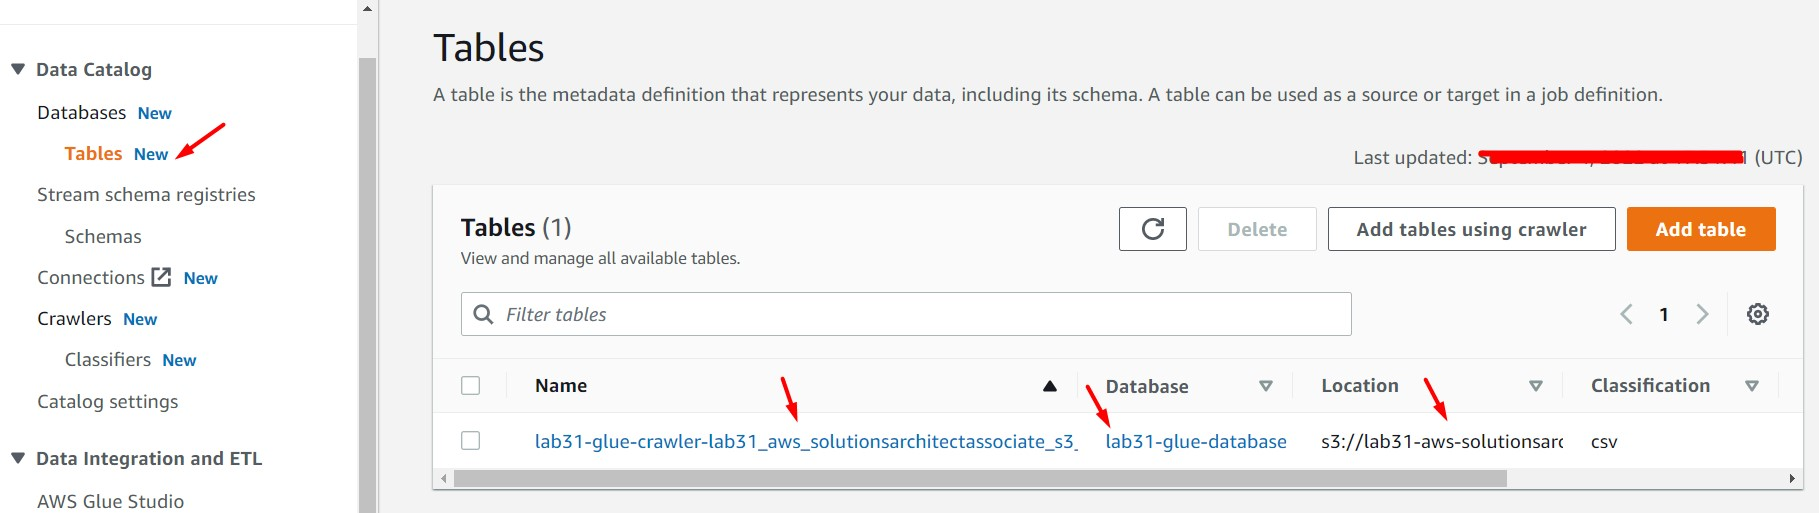
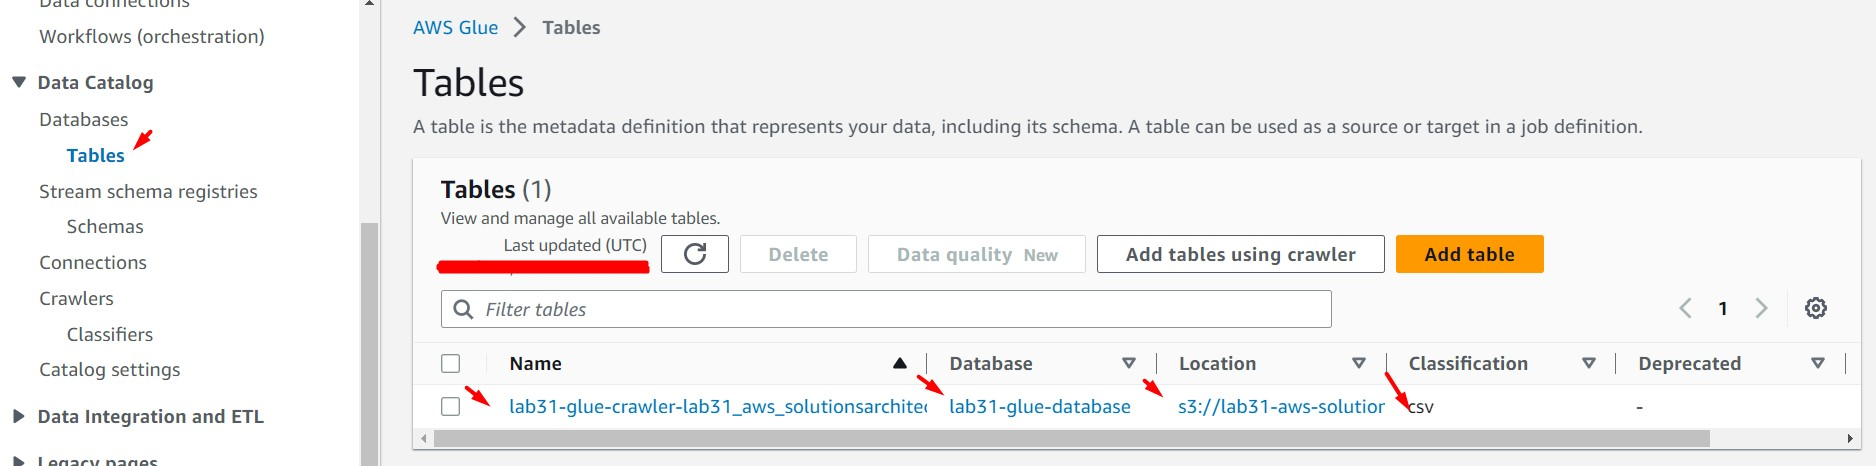
Update Lab-31

diff --git a/Lab-31/README-Lab31.md b/Lab-31/README-Lab31.md
@@ -23,6 +23,8 @@
 
 1. Acceder al servicio AWS Cloud9 y generar un nuevo (o encender nuestro) ambiente de trabajo (Ubuntu 18.04 LTS)
 
+<br>
+
 2. Ejecutar los siguinentes comandos en nuestro Cloud9
 
 ```bash
@@ -31,13 +33,17 @@ sudo apt-get update
 git clone https://github.com/jbarreto7991/aws-solutionsarchitectassociate.git
 ```
 
+<br>
+
 3. Acceder al laboratorio 31 (Lab-31), carpeta "code". Validar que se cuenta con la plantilla de cloudformation "1_lab31-s3-glue.yaml".
+
+<br>
 
 4. Desplegar la respectiva plantilla CloudFormation ejecutando AWSCLI.
 
 <br>
 
-5. **1_lab31-s3-glue.yaml** Esta plantilla no contiene parámetros de despliegue. Después del despliegue, analizar los recursos aprovisionados: dos buckets S3 (uno para ser usado por el Crawler de Glue y el otro para ser usado por Athena) y el AWS Glue Database "lab31-glue-database".
+5. **1_lab31-s3-glue.yaml** Esta plantilla no contiene parámetros de despliegue. Después del despliegue, analizar los recursos aprovisionados: dos buckets S3 (uno para ser usado por el Crawler de Glue y el otro para ser usado por Athena) y el recurso "AWS Glue Database" "lab31-glue-database".
 
 ```bash
 aws cloudformation create-stack --stack-name lab31-s3-glue --template-body file://~/environment/aws-solutionsarchitectassociate/Lab-31/code/1_lab31-s3-glue.yaml --capabilities CAPABILITY_IAM
@@ -45,7 +51,7 @@ aws cloudformation create-stack --stack-name lab31-s3-glue --template-body file:
 
 <br>
 
-6. Descargar el siguiente archivo ("tripdata.csv") en nuestro Cloud9 enviroment y cargar el archivo al bucket S3 "lab31-aws-solutionsarchitectassociate-s3". Analizar el contenido del archivo (valores y tipo de datos por cada columna).
+6. Descargar el siguiente archivo ("tripdata.csv") en nuestro Cloud9 enviroment y cargar el archivo al bucket S3 "lab31-aws-solutionsarchitectassociate-s3-${Account_ID}". Analizar el contenido del archivo (valores y tipo de datos por cada columna).
 
 ```bash
 #Descarga de archivo de prueba
@@ -65,7 +71,9 @@ aws s3 cp tripdata.csv s3://$BUCKET
 <br>
 
 7. Ingresar al servicio AWS Glue y analizar las siguientes secciones:
+
     * Sección "Data catalog - Databases"
+    * Sección "Data catalog - Databases - Tables"
     * Sección "Data catalog - Crawlers"
 
 <br>
@@ -75,6 +83,10 @@ aws s3 cp tripdata.csv s3://$BUCKET
 <br>
 
 <img src="images/Lab31_02.jpg">
+
+<br>
+
+<img src="images/Lab31_11.jpg">
 
 <br>
 
@@ -94,7 +106,6 @@ aws s3 cp tripdata.csv s3://$BUCKET
 9. Ir a la sección  "Data catalog - Databases - Tables". Validar la creación de la tabla "lab31-glue-crawler-lab31_aws_solutionsarchitectassociate_s3". Accedemos al detalle de la tabla. Visualizamos los siguientes valores:
 
     * Location: s3://lab31-aws-solutionsarchitectassociate-s3-AAAAAAAAAAAA/
-    * Connection: s3://lab31-aws-solutionsarchitectassociate-s3-AAAAAAAAAAAA/
     * Input format: org.apache.hadoop.mapred.TextInputFormat
     * Output format: org.apache.hadoop.hive.ql.io.HiveIgnoreKeyTextOutputFormat
     * Serde serialization lib: org.apache.hadoop.hive.serde2.lazy.LazySimpleSerDe
@@ -112,7 +123,7 @@ aws s3 cp tripdata.csv s3://$BUCKET
 
 <br>
 
-10. Ir al servicio "Athena". Luego accedemos a la opción "Settings" y damos clic en la opción "Manage". Configuramos como Bucket destino el bucket "lab31-aws-solutionsarchitectassociate-athena". Dar clic en el botón "Save".
+10. Ir al servicio "Athena". Luego accedemos a la opción "Settings" y damos clic en la opción "Manage". Configuramos como Bucket destino el bucket "lab31-aws-solutionsarchitectassociate-athena". Dar clic en el botón "Save". La plantilla CloudFormation desplegada en este laboratorio aprovision el bucket "lab31-aws-solutionsarchitectassociate-athena-AAAAAAAAAAAA". Seleccionar este bucket como destino de Athena.
 
 <br>
 
@@ -132,7 +143,8 @@ aws s3 cp tripdata.csv s3://$BUCKET
 
 <br>
 
-12. Si ingresamos al contenido del bucket "lab31-glue-crawler-lab31-aws-solutionsarchitectassociate_s3_AAAAAAAAAAAA" (bucket repositorio de Athena) podremos visualizar que se han generado dos archivos:
+12. Si ingresamos al contenido del bucket "lab31-aws-solutionsarchitectassociate-athena-AAAAAAAAAAAA" (bucket repositorio de Athena) podremos visualizar que se han generado dos archivos:
+
  * 9c311fde-fa3c-484d-8949-fd22740f0cba.csv
  * 9c311fde-fa3c-484d-8949-fd22740f0cba.csv.metadata
 
@@ -158,4 +170,13 @@ aws s3 cp tripdata.csv s3://$BUCKET
 "1036","""2013-06-27 13:06:49""","""2013-06-27 13:24:05""","151","""Cleveland Pl & Spring St""","40.722103786686034","-73.99724900722504","326","""E 11 St & 1 Ave""","40.72953837","-73.98426726","17251","""Customer""",,"0"
 "354","""2013-06-27 13:07:27""","""2013-06-27 13:13:21""","224","""Spruce St & Nassau St""","40.71146364","-74.00552427","415","""Pearl St & Hanover Square""","40.7047177","-74.00926027","16011","""Subscriber""","1985","1"
 
+```
+
+
+### Eliminación de recursos
+
+```bash
+#Eliminar objetos almacenados en los Buckets S3
+aws cloudformation delete-stack --stack-name lab31-s3-glue
+#Eliminar Buckets S3
 ```
